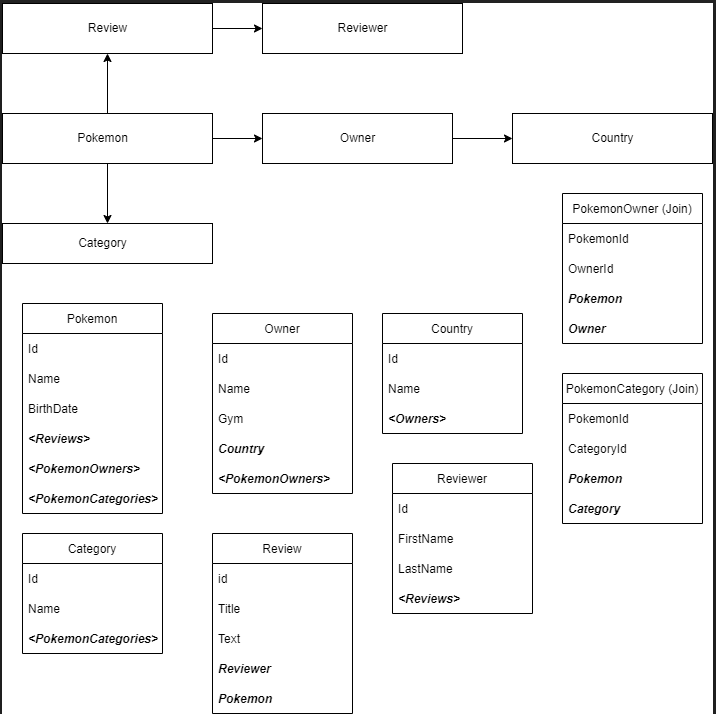
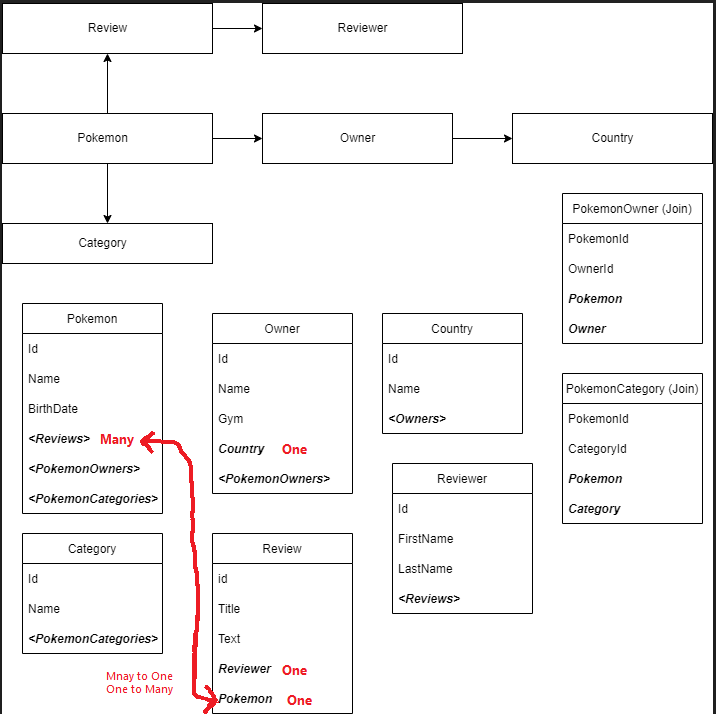
Added One-To-Many & Many-To-One relationships

diff --git a/P1_PokemonReviewApp/Models/Pokemon.cs b/P1_PokemonReviewApp/Models/Pokemon.cs
@@ -5,6 +5,8 @@
         public int Id { get; set; } // column
         public string Name { get; set; }
         public DateTime BirthDate { get; set; }
+        public ICollection<Review> Reviews { get; set; } // Many Relationship
+        // Using ICollecton becouse Reviews is a list of objects
 
     }
 }

diff --git a/P1_PokemonReviewApp/Models/Review.cs b/P1_PokemonReviewApp/Models/Review.cs
@@ -5,5 +5,7 @@
         public int Id { get; set; }
         public string Title { get; set; }
         public string Text { get; set; }
+        public Reviewer Reviewer { get; set; } // One Relationship
+        public Pokemon Pokemon { get; set; } // One Relationship
     }
 }

diff --git a/P1_PokemonReviewApp/Models/Reviewer.cs b/P1_PokemonReviewApp/Models/Reviewer.cs
@@ -5,5 +5,6 @@
         public int Id { get; set; }
         public string FirstName { get; set; }
         public string LastName { get; set; }
+        public ICollection<Review> Reviews { get; set; } // Many Relationship
     }
 }

diff --git a/P1_PokemonReviewApp/Models/Owner.cs b/P1_PokemonReviewApp/Models/Owner.cs
@@ -5,5 +5,6 @@
         public int Id { get; set; }
         public string Name { get; set; }
         public string Gym { get; set; }
+        public Country Country { get; set; } // One Relationship
     }
 }

diff --git a/P1_PokemonReviewApp/Models/Country.cs b/P1_PokemonReviewApp/Models/Country.cs
@@ -4,5 +4,6 @@
     {
         public int Id { get; set; }
         public string Name { get; set; }
+        public ICollection<Owner> Owners { get; set; } // Maney Relationship
     }
 }
